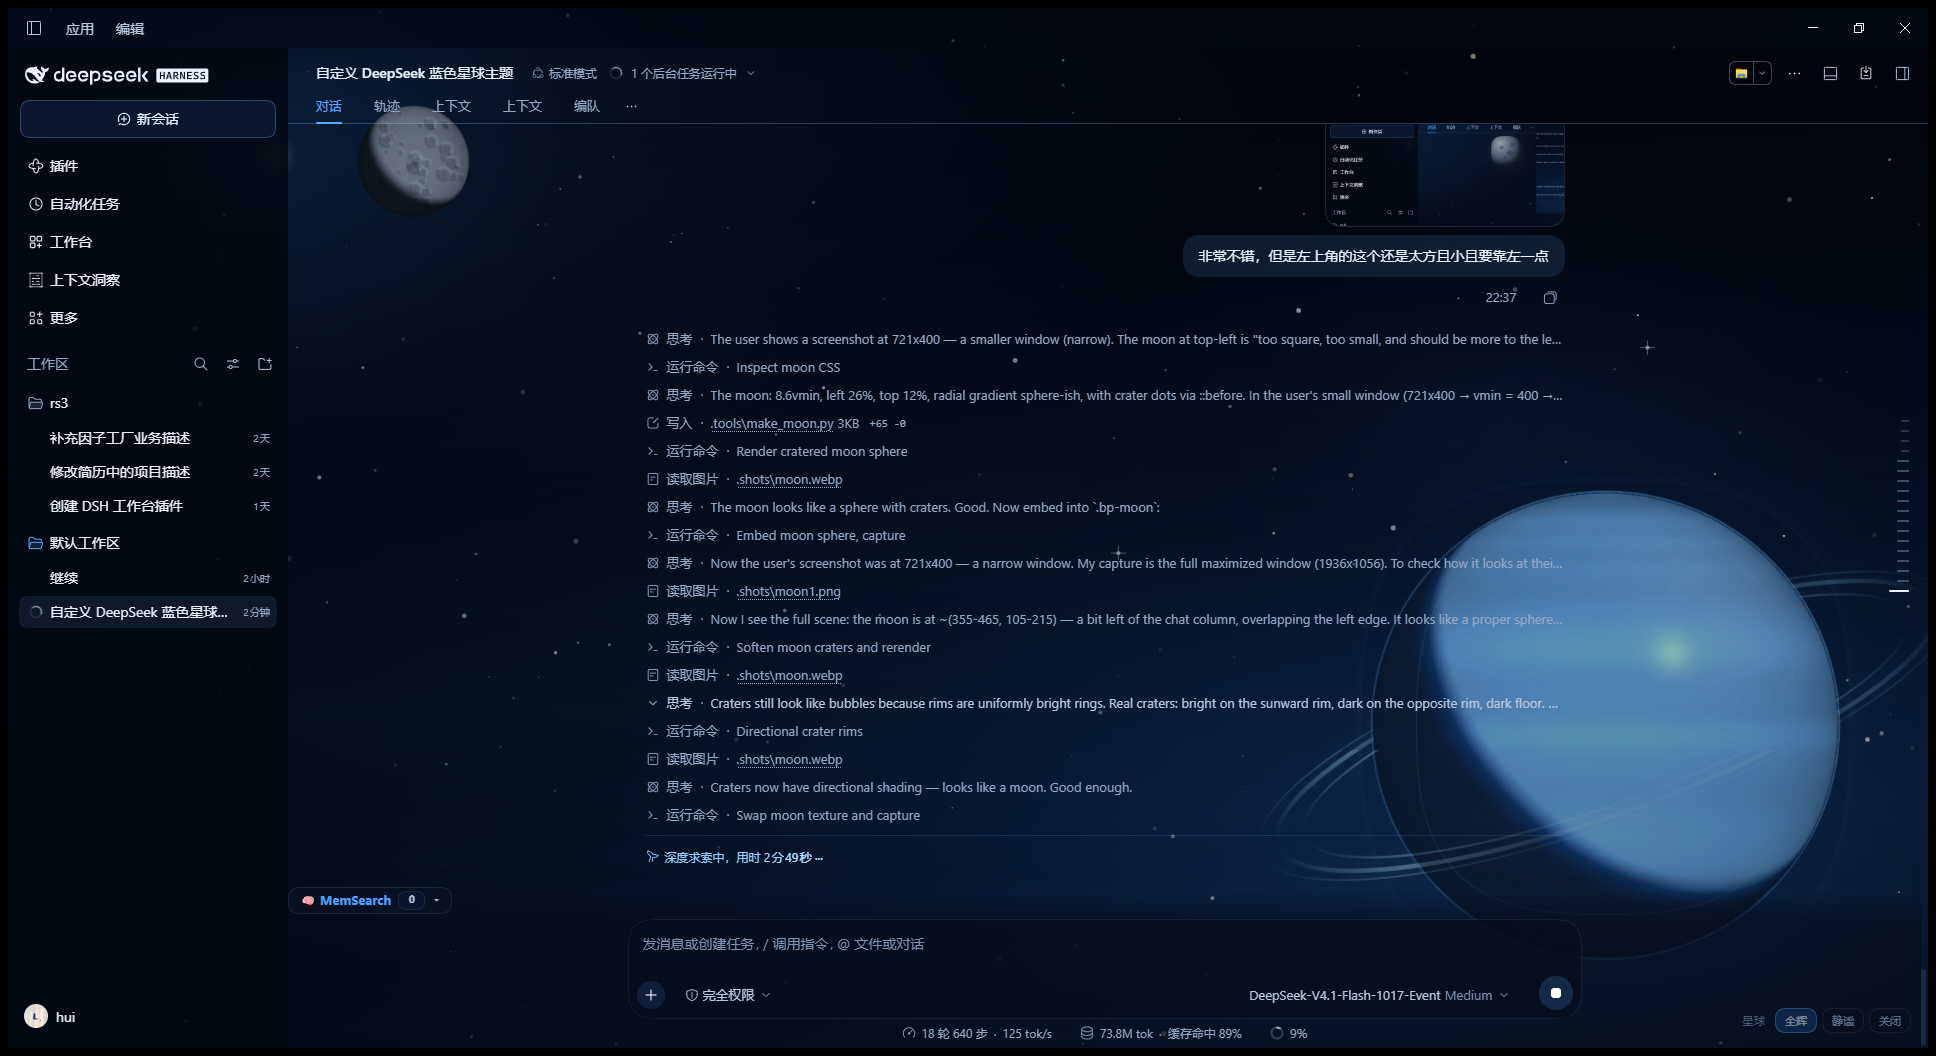
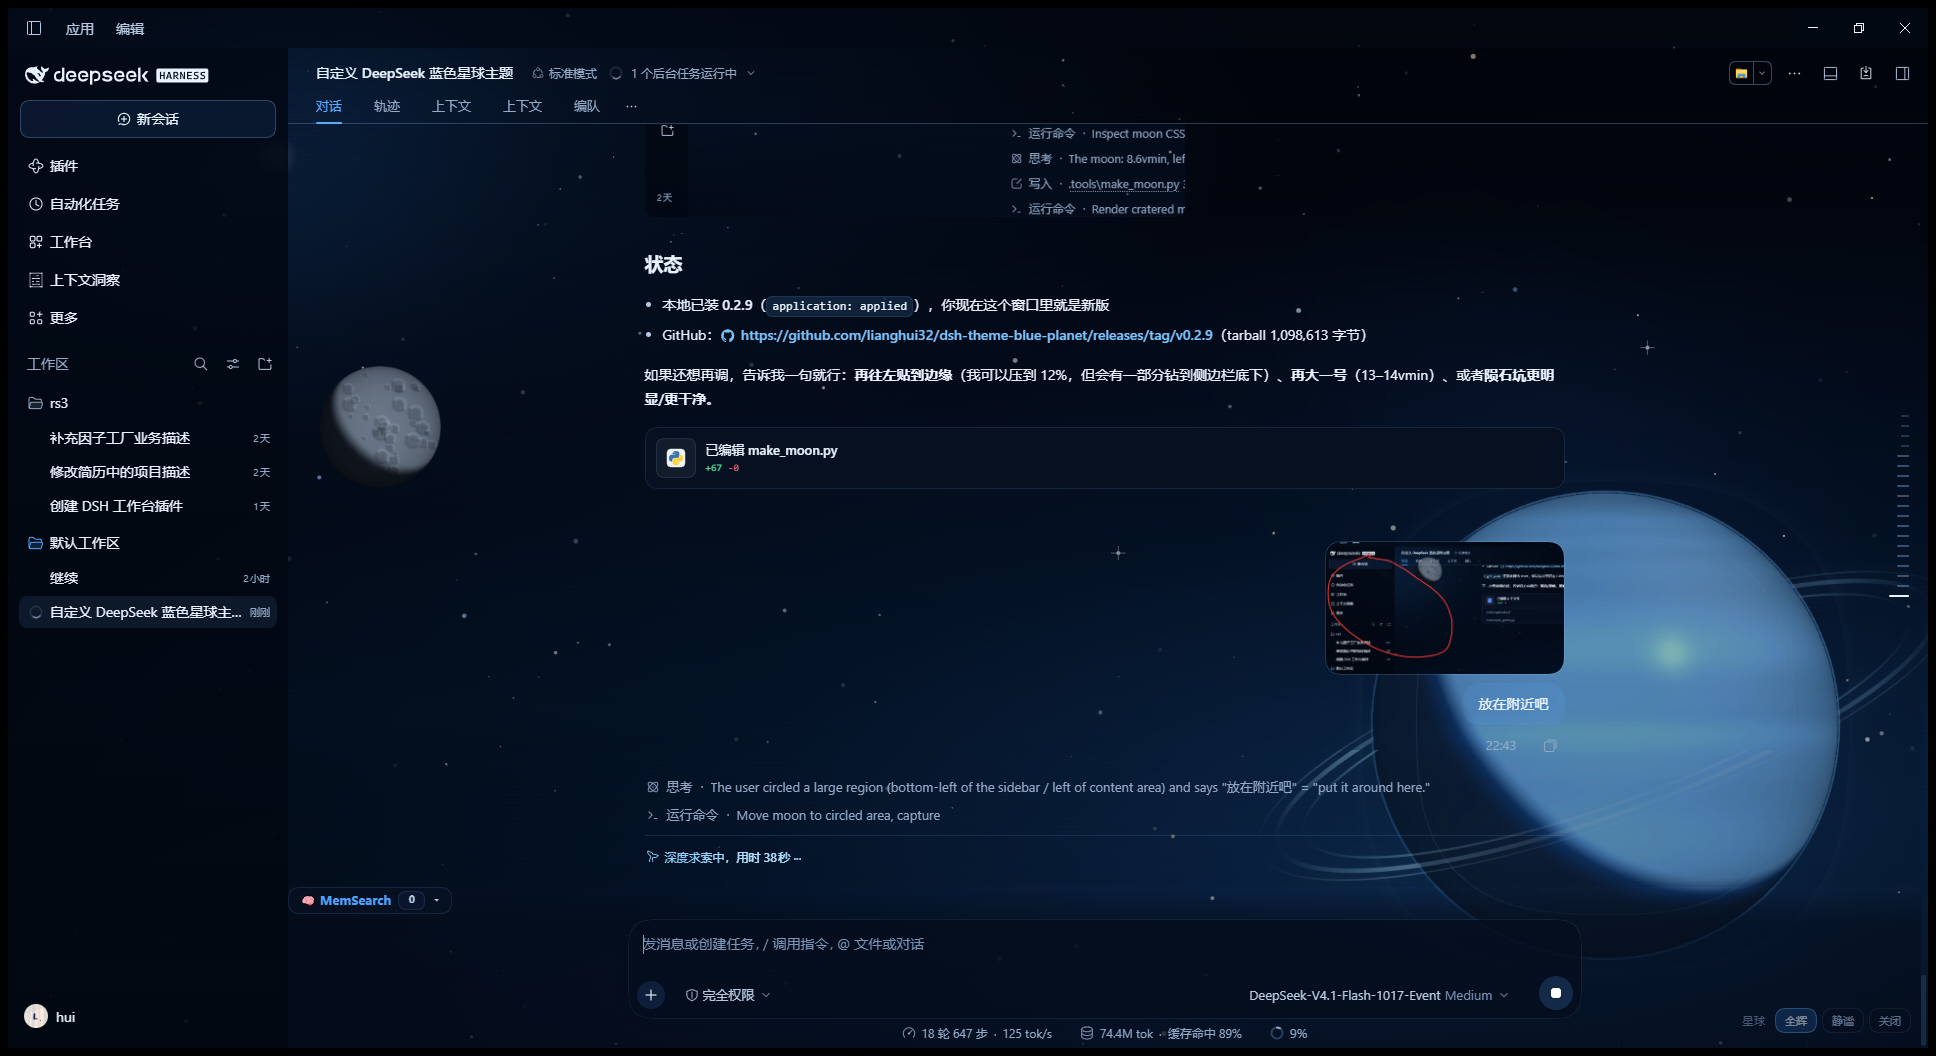
feat(moon): dock the satellite beside the workspace list

diff --git a/client.js b/client.js
@@ -373,10 +373,10 @@ html[data-bp-mode="off"] #${STAGE_ID} { display: none; }
 
 .bp-moon {
   position: absolute;
-  left: 18%;
-  top: 9%;
-  width: 11.5vmin;
-  height: 11.5vmin;
+  left: 16%;
+  top: 34%;
+  width: 12.5vmin;
+  height: 12.5vmin;
   border-radius: 50%;
   opacity: 0.92;
   /* Rendered sphere with a crater field: a flat gradient read as a square
